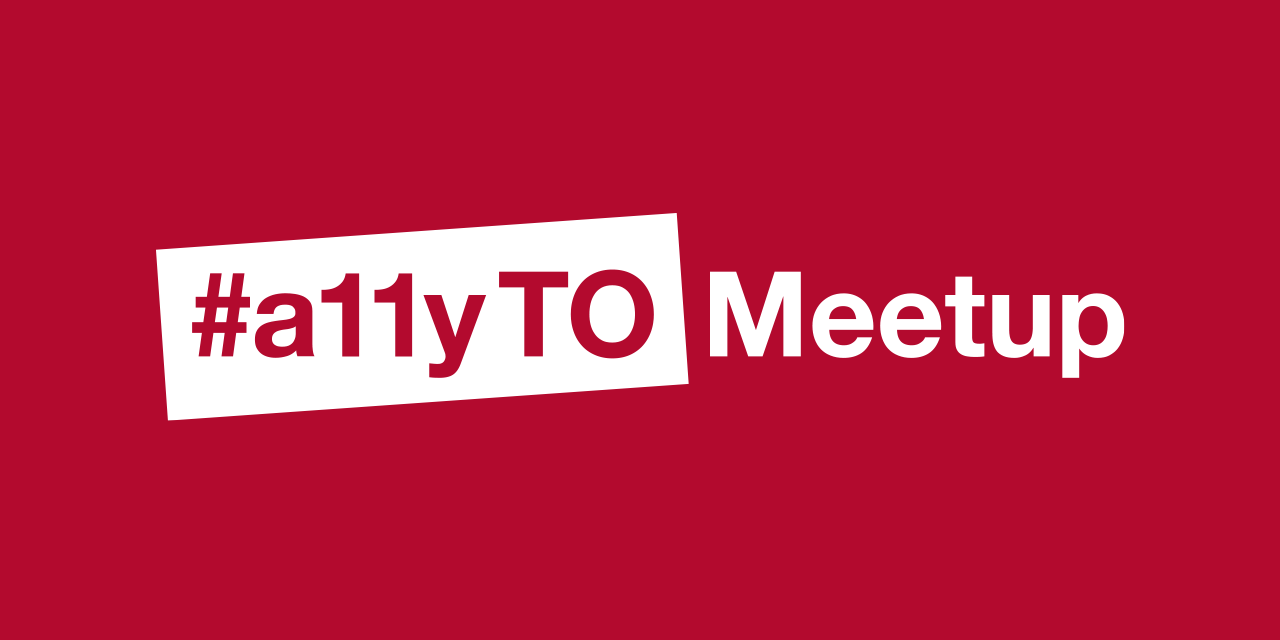
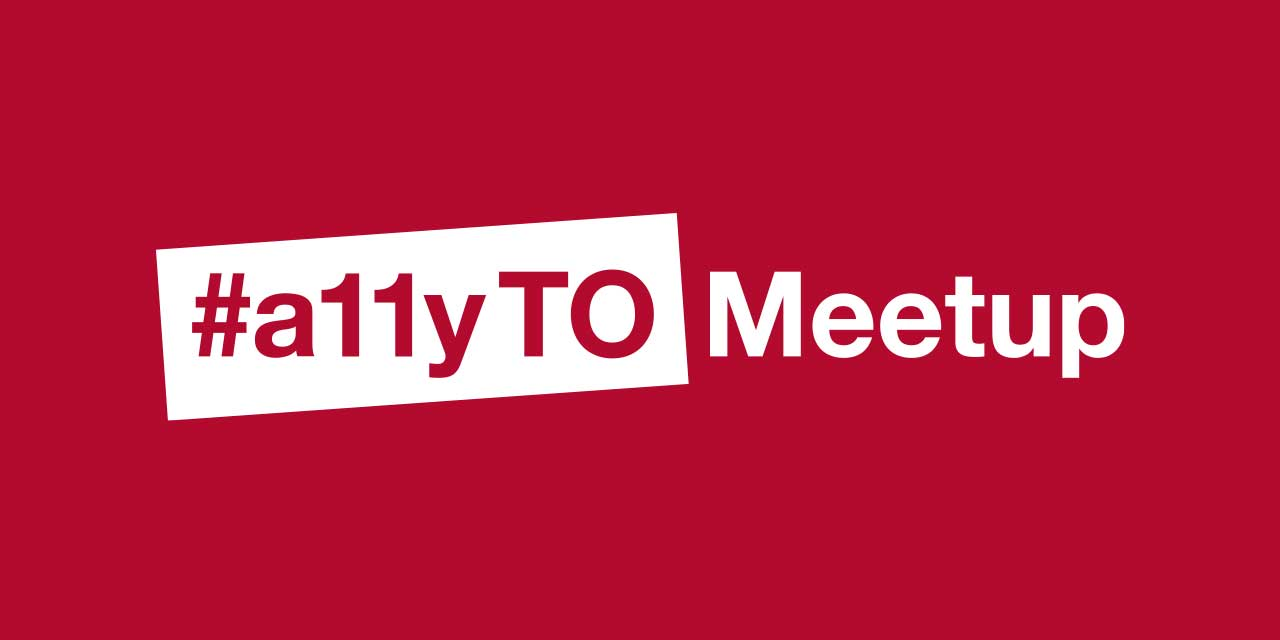
Update open graph meta info

diff --git a/_includes/header.html b/_includes/header.html
@@ -15,8 +15,8 @@
   <meta property="og:description" content="{{ page.description }}" />
   <meta property="og:locale" content="en_US" />
   <meta property="og:url" content="{{ site.url }}" />
-  <meta property="og:image" content="https://meetup.a11yto.com/ogp.png" />
-  <meta property="og:image:type" content="image/png" />
+  <meta property="og:image" content="https://meetup.a11yto.com/ogp.jpg" />
+  <meta property="og:image:type" content="image/jpg" />
   <meta property="og:image:alt" content="The #a11yTO Meetup logo, #a11yTO red letters on a white slightly askew rectangle to the left of the word meetup in white, all on top of red background" />
   <meta name="twitter:card" content="summary" />
   <meta name="twitter:site" content="@{{ site.twitter_username }}" />
